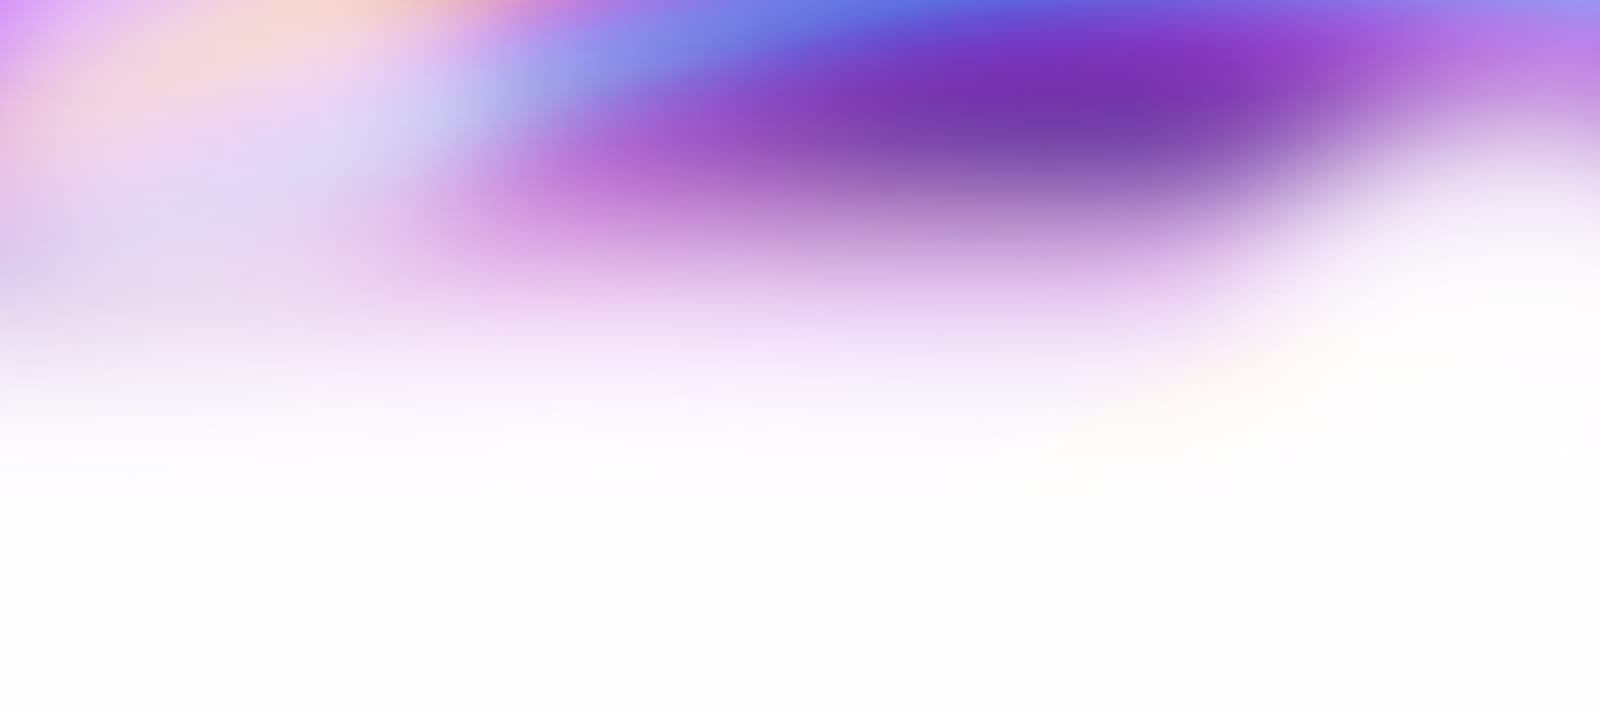
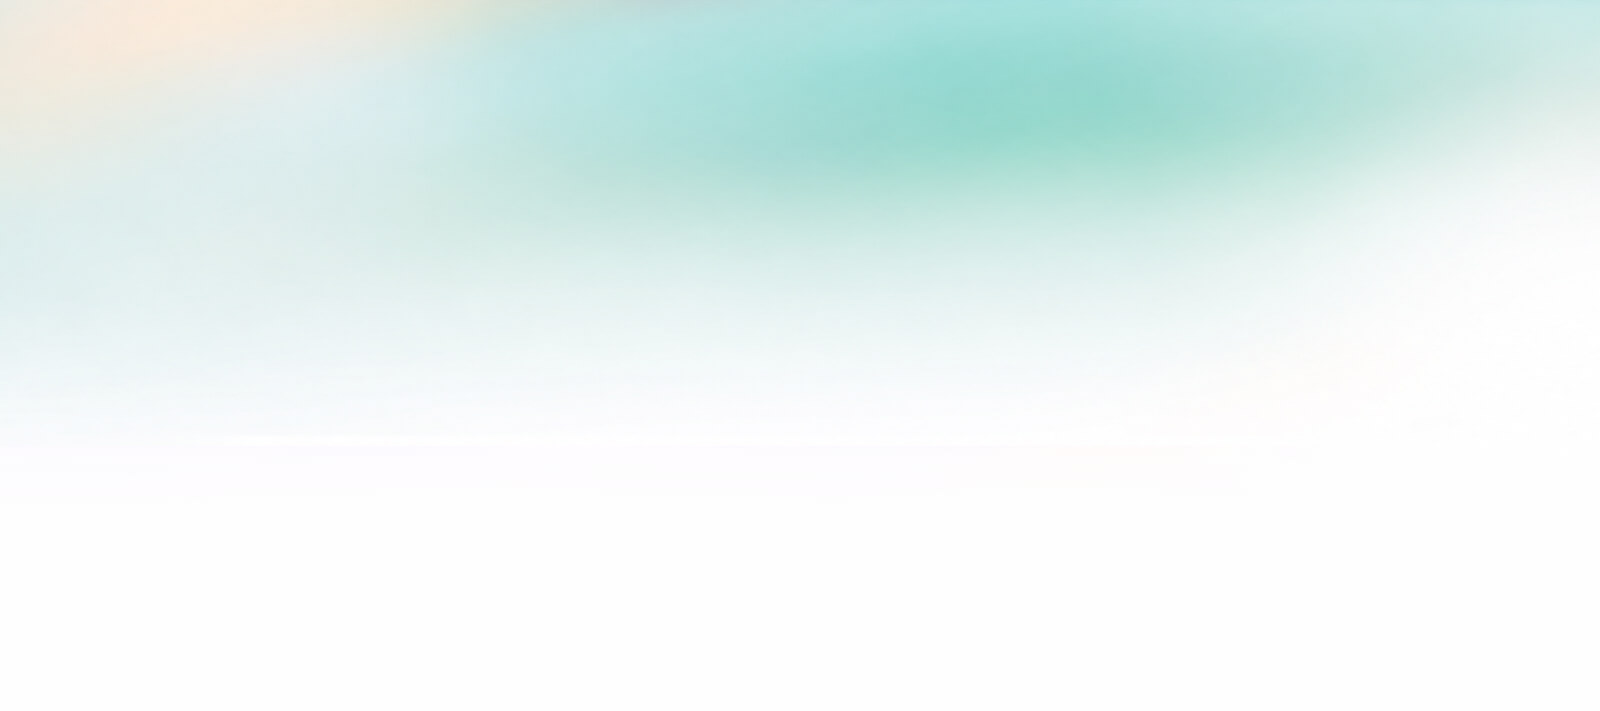
feat: mejora cromática

diff --git a/src/styles/global.css b/src/styles/global.css
@@ -14,12 +14,12 @@
   --gray-900: #f3f4f7;
   --gray-999-basis: 0, 0%, 100%;
   --gray-999_40: hsla(var(--gray-999-basis), 0.4);
-  --gray-999: #ffffff;
+  --gray-999: #fefefe;
 
   --accent-light: #aaaee0;
   --accent-regular: #777ec8;
   --accent-dark: #444ca0;
-  --accent-overlay: hsla(280, 89%, 67%, 0.33);
+  --accent-overlay: #b3e2d7;
   --accent-subtle-overlay: var(--accent-overlay);
   --accent-text-over: var(--gray-999);
 
@@ -31,8 +31,8 @@
   --gradient-stop-3: var(--accent-dark);
   --gradient-subtle: linear-gradient(
     150deg,
-    var(--gray-900) 19%,
-    var(--gray-999) 150%
+    #e8e6f8 19%,
+    /* lila muy suave */ #f0faf9 150% /* verde agua muy suave */
   );
   --gradient-accent: linear-gradient(
     150deg,
@@ -43,8 +43,8 @@
   --gradient-accent-orange: linear-gradient(
     150deg,
     #91d1cd,
-    var(--accent-regular),
-    var(--accent-dark)
+    /* tu verde #95d3c9 */ var(--accent-regular),
+    /* lila medio */ var(--accent-dark) /* lila oscuro */
   );
   --gradient-stroke: linear-gradient(180deg, var(--gray-900), var(--gray-700));
 
@@ -108,14 +108,15 @@
   --gradient-stop-1: #4c11c6;
   --gradient-subtle: linear-gradient(
     150deg,
-    var(--gray-900) 19%,
-    var(--gray-999) 81%
+    #1a1730 19%,
+    /* dark con tinte lila */ #0e1f1e 81% /* dark con tinte verde agua */
   );
+
   --gradient-accent-orange: linear-gradient(
     150deg,
-    #c3d5d0,
-    var(--accent-regular),
-    var(--accent-light)
+    #2a6e6a,
+    /* verde agua oscuro */ var(--accent-regular),
+    /* lila */ var(--accent-light) /* lila claro */
   );
   --gradient-stroke: linear-gradient(180deg, var(--gray-600), var(--gray-800));
 